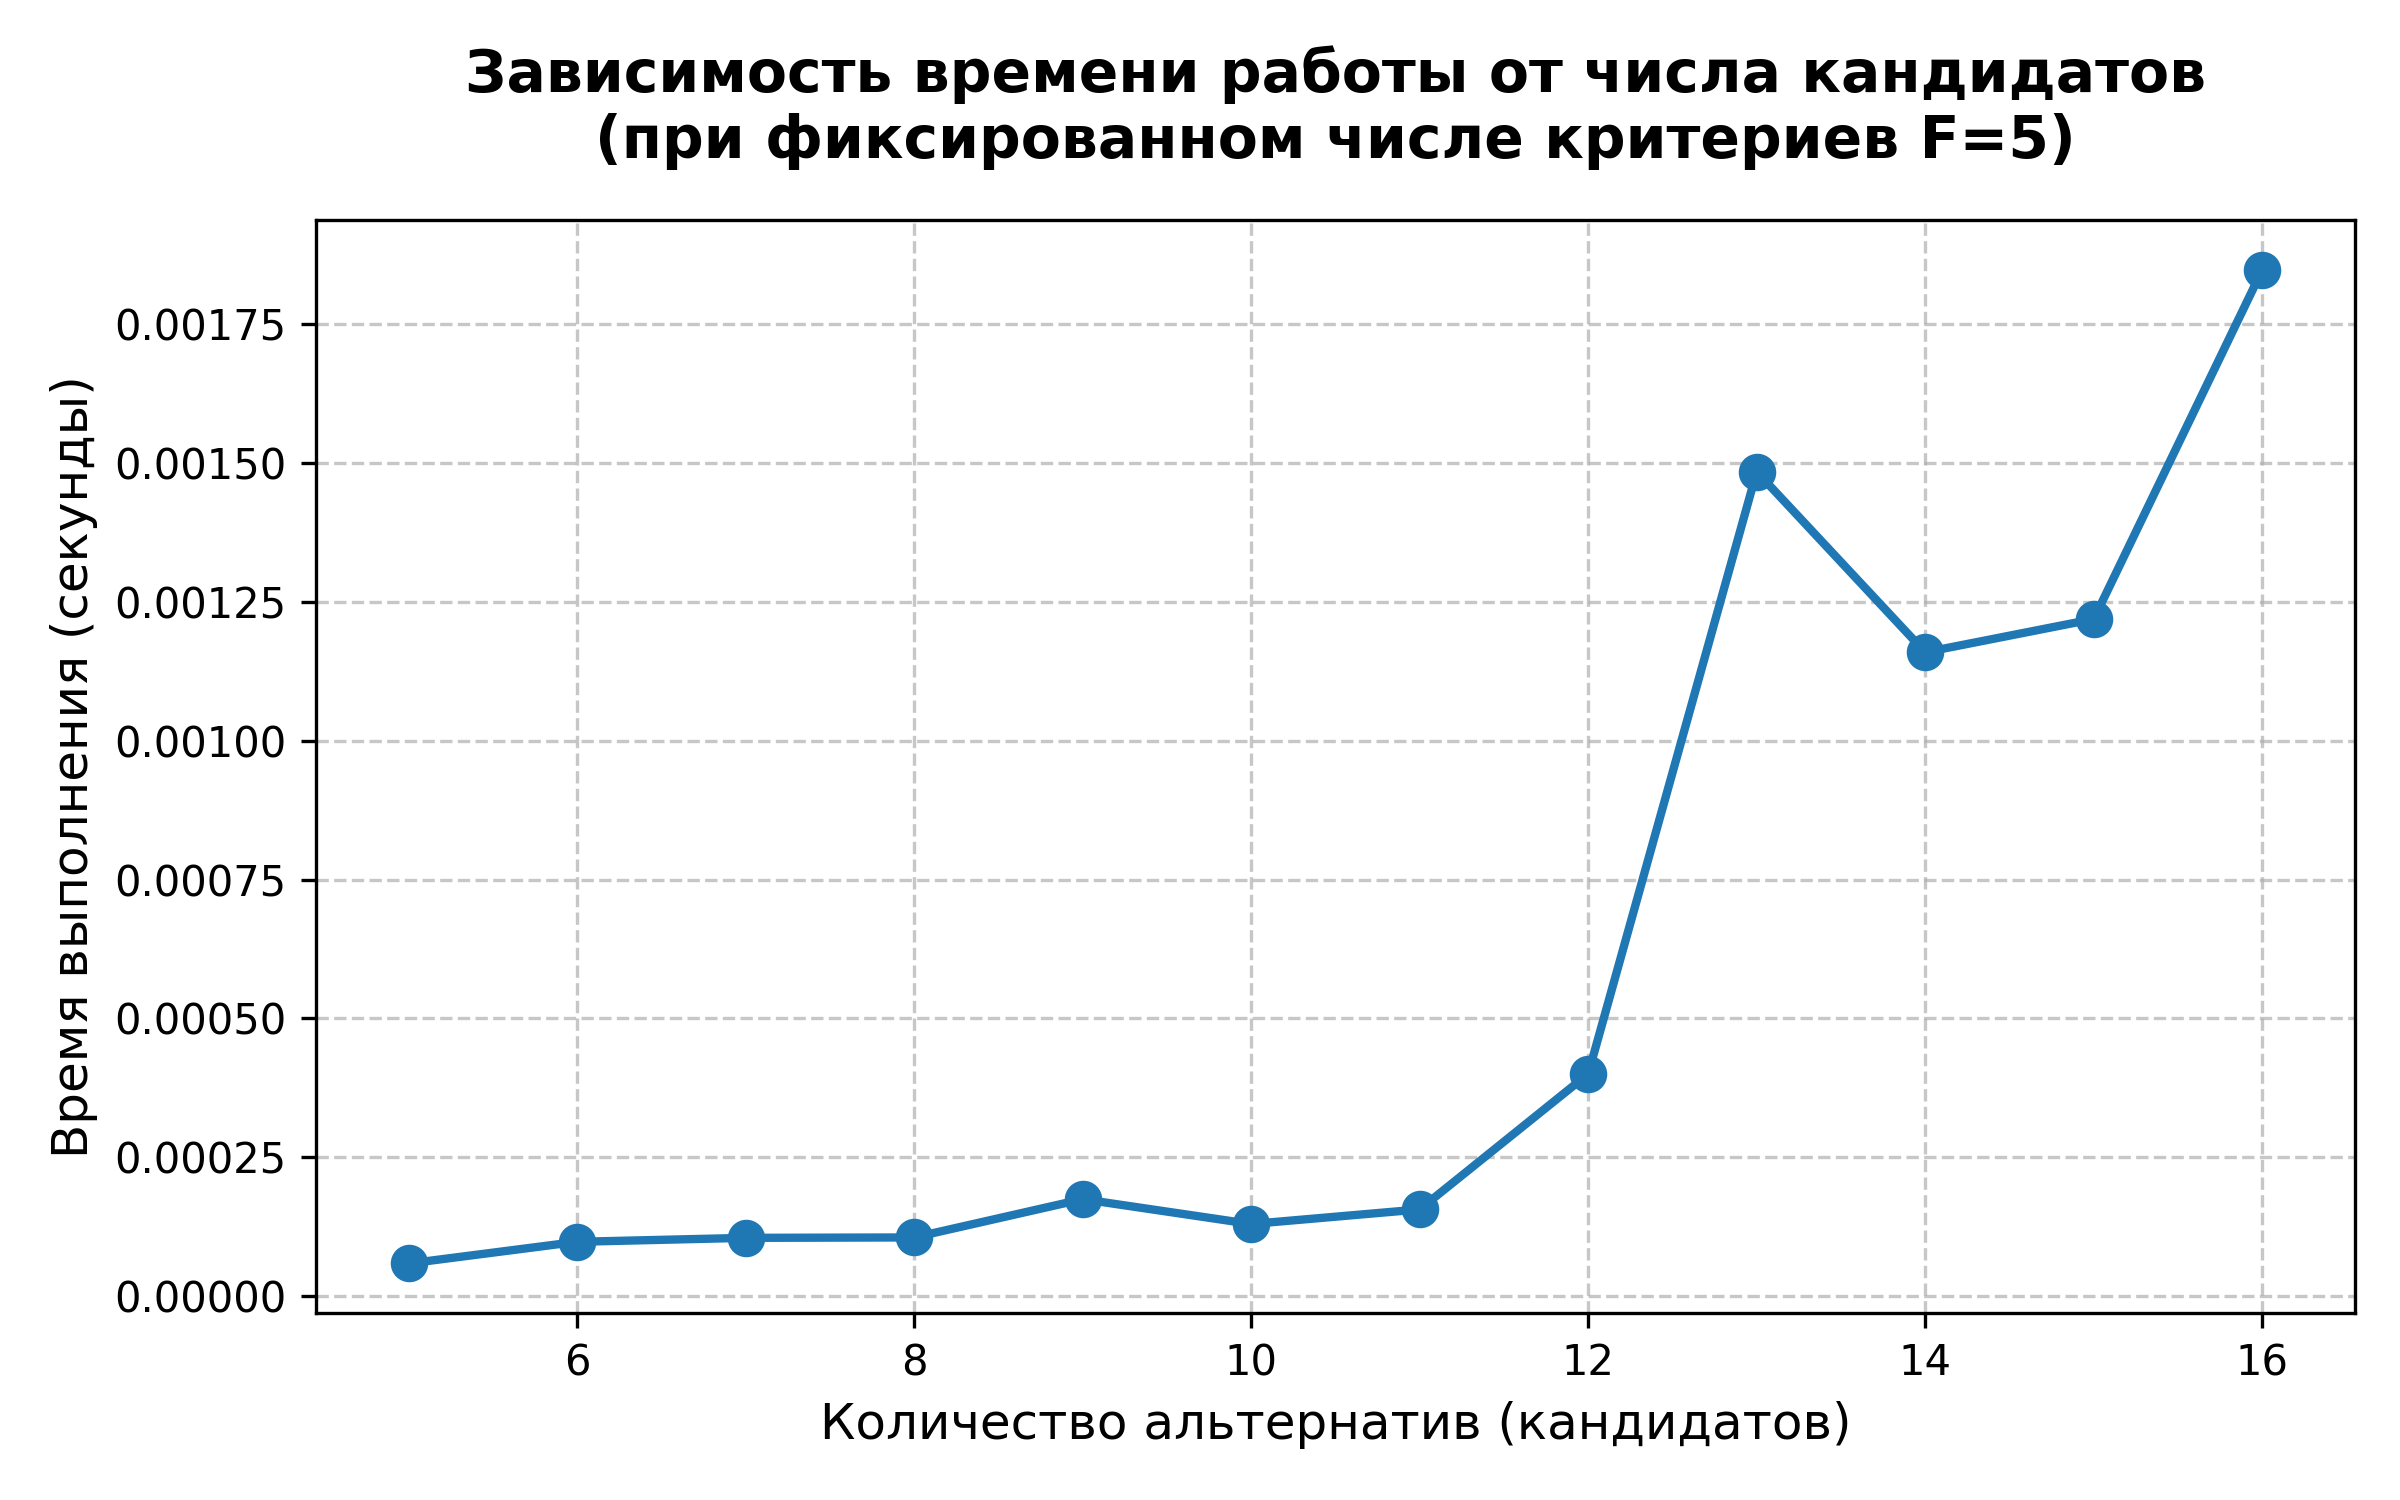
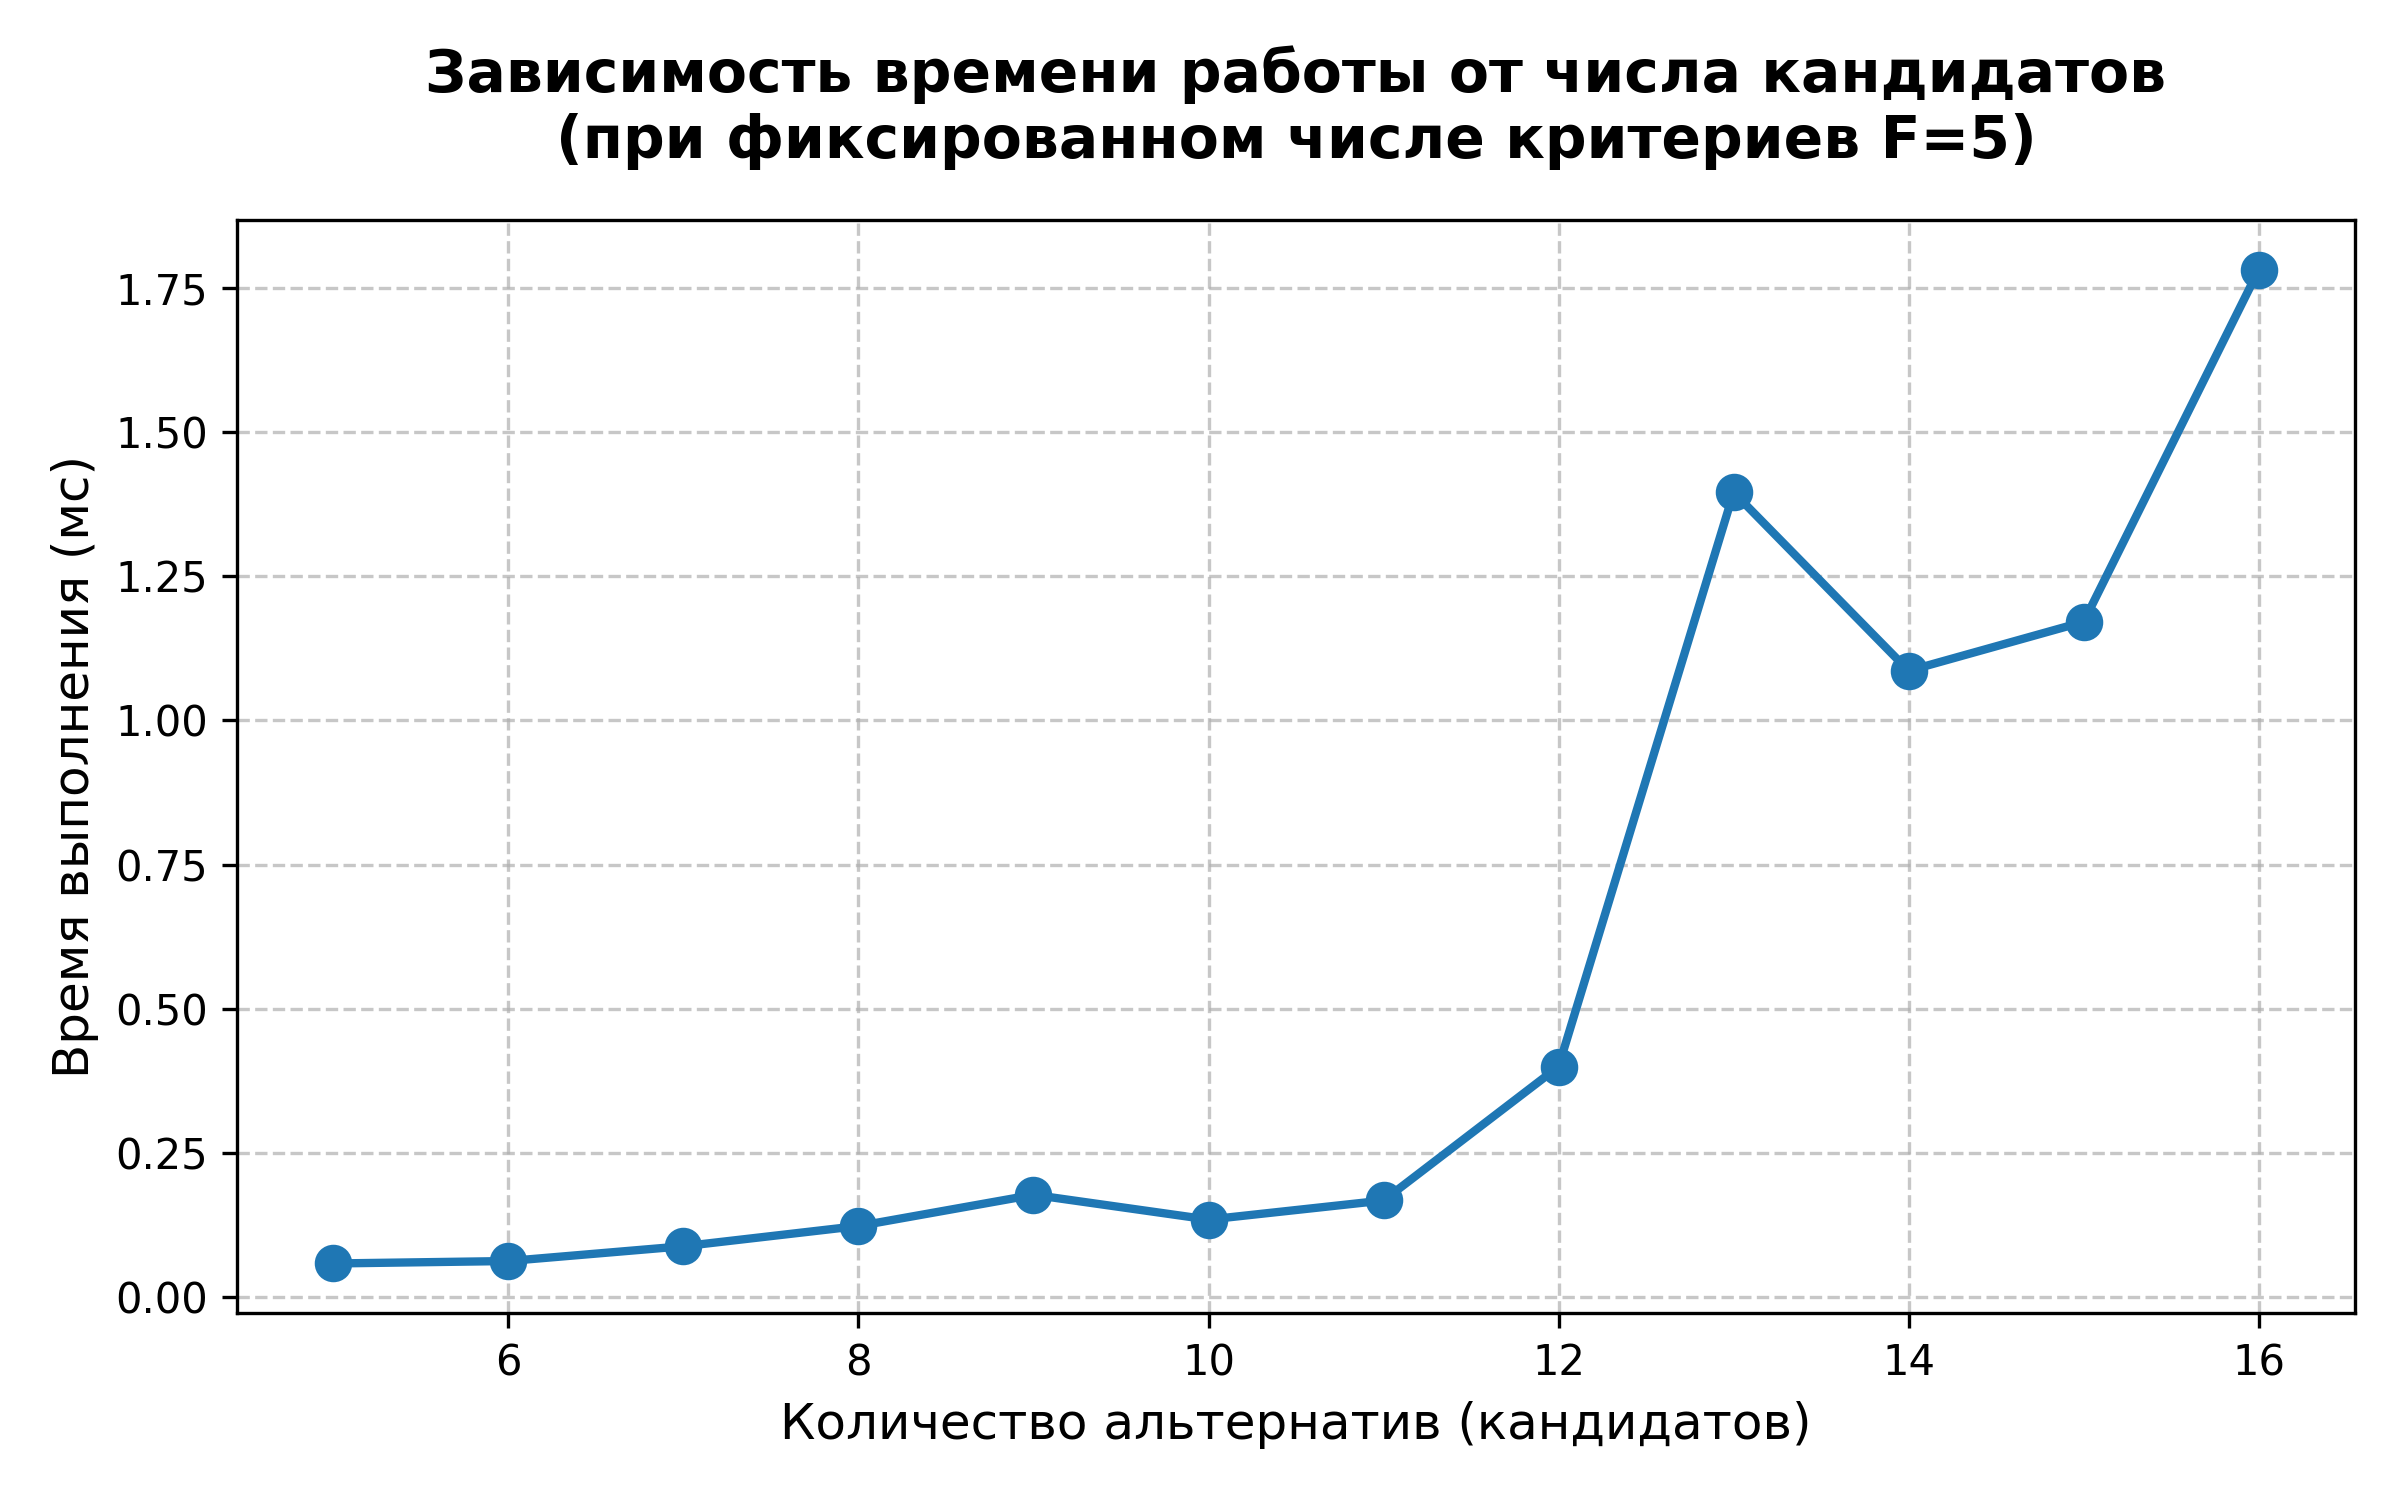
fix visualization & fix y scale in research graphics

diff --git a/research/statistics.py b/research/statistics.py
@@ -34,14 +34,14 @@ def measure_average_time(filepath: str, num_runs: int = 10) -> float:
     return avg_time
 
 
-def plot_and_save(x_values: List[int], y_times: List[float], x_label: str, title: str, filename: str):
+def plot_and_save(x_values: List[int], y_times: List[float], x_label: str, title: str, filename: str, y_label="Время выполнения (секунды)"):
     plt.figure(figsize=(8, 5))
 
     plt.plot(x_values, y_times, marker='o', linestyle='-', color='#1f77b4', linewidth=2, markersize=8)
 
     plt.title(title, fontsize=14, fontweight='bold', pad=15)
     plt.xlabel(x_label, fontsize=12)
-    plt.ylabel("Время выполнения (секунды)", fontsize=12)
+    plt.ylabel(y_label, fontsize=12)
 
     plt.grid(True, linestyle='--', alpha=0.7)
 
@@ -66,10 +66,11 @@ def main():
 
     plot_and_save(
         x_values=cands_x,
-        y_times=times_exp1,
+        y_times=[t * 1000 for t in times_exp1],
         x_label="Количество альтернатив (кандидатов)",
         title="Зависимость времени работы от числа кандидатов\n(при фиксированном числе критериев F=5)",
-        filename="statistics/graph_1_candidates.png"
+        filename="statistics/graph_1_candidates.png",
+        y_label="Время выполнения (мс)"
     )
 
     print("\nЭксперимент 2: Зависимость от числа критериев...")
@@ -83,10 +84,11 @@ def main():
 
     plot_and_save(
         x_values=crits_x,
-        y_times=times_exp2,
+        y_times=[t * 1000 for t in times_exp2],
         x_label="Количество критериев",
         title="Зависимость времени работы от числа критериев\n(при фиксированном числе кандидатов A=8)",
-        filename="statistics/graph_2_criteria.png"
+        filename="statistics/graph_2_criteria.png",
+        y_label="Время выполнения (мс)"
     )
 
     print("\nЭксперимент 3: Синхронный рост (Кандидаты = Критерии)...")

diff --git a/src/utils/vizualize_result.py b/src/utils/vizualize_result.py
@@ -20,12 +20,12 @@ def visualize_result(linearizations: List[Tuple[str, ...]], output_filename: str
     ax.set_ylim(0, 1)
 
     fig.text(0.5, 0.95, "Ранжированный список кандидатов",
-             ha='center', va='center', fontsize=18, fontweight='bold', family='monospace')
+             ha='center', va='center', fontsize=25, fontweight='bold', family='monospace')
 
     subtext = ("Кандидаты располагаются сверху вниз от лучшего к худшему.\n"
                "Может быть представлено несколько вариантов ранжирований.")
-    fig.text(0.5, 0.88, subtext,
-             ha='center', va='center', fontsize=14, color='#555555', family='monospace')
+    fig.text(0.5, 0.85, subtext,
+             ha='center', va='center', fontsize=20, color='#555555', family='monospace')
 
     if num_cols > 1:
         x_positions = [0.1 + 0.8 * i / (num_cols - 1) for i in range(num_cols)]
@@ -41,7 +41,7 @@ def visualize_result(linearizations: List[Tuple[str, ...]], output_filename: str
         x = x_positions[col_idx]
 
         ax.text(x, 0.85, f"Вариант {col_idx + 1}",
-                ha='center', va='center', fontsize=12, fontweight='bold', color='#6c757d')
+                ha='center', va='center', fontsize=16, fontweight='bold', color='#6c757d')
 
         for row_idx, candidate in enumerate(lin):
             y = y_positions[row_idx]